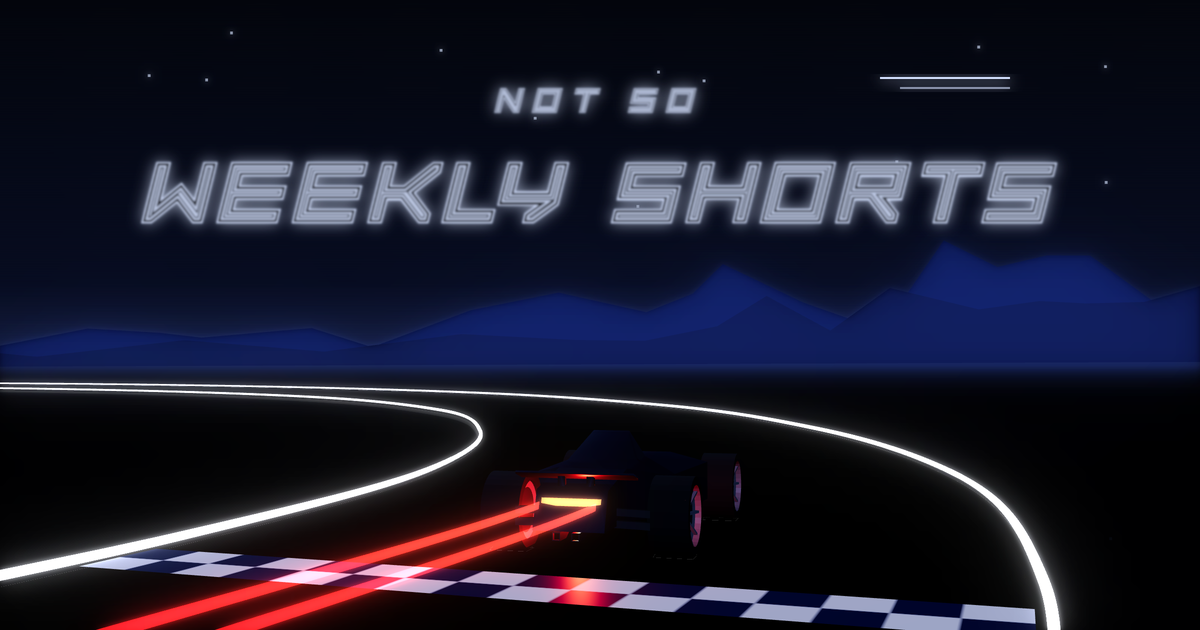
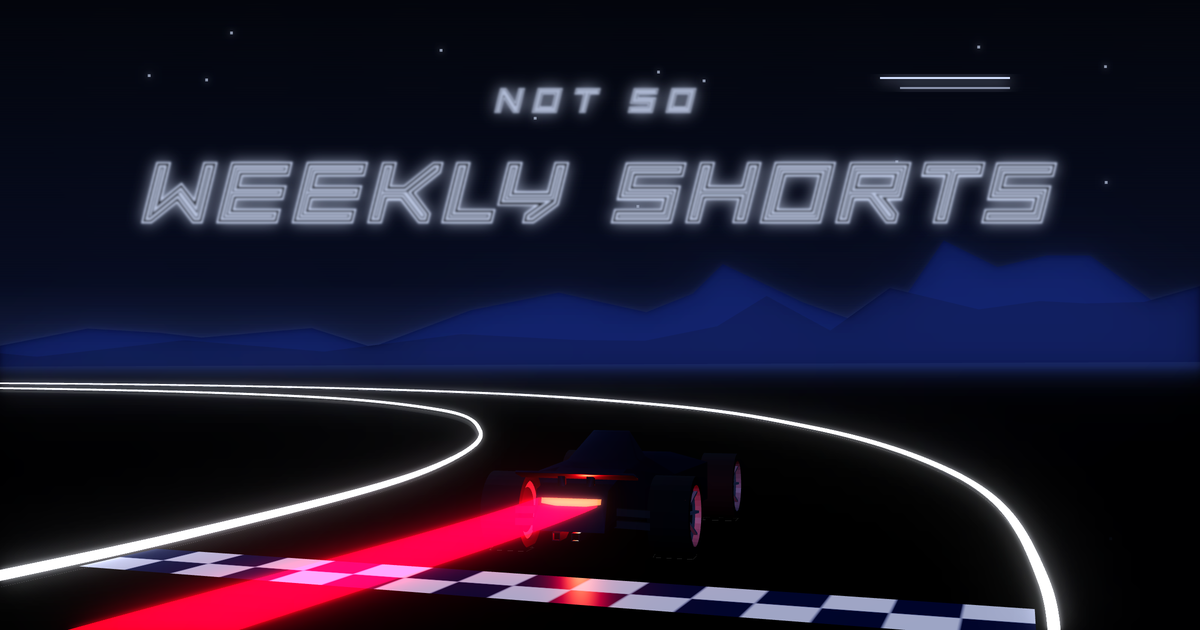
v11.72

Changed region(s): [[0.0308, 0.754, 0.5242, 1.0]]

diff --git a/index.html b/index.html
@@ -10,7 +10,7 @@
         <meta property="og:title" content="Not So Weekly Shorts">
         <meta property="og:description" content="Short PolyTrack tracks from the community, with times kept secret until the week ends. Chase medals, fill the weekly bingo card, and race friends in cups.">
         <meta property="og:url" content="https://notweeklyshorts.github.io/">
-        <meta property="og:image" content="https://notweeklyshorts.github.io/images/og.png?v=2">
+        <meta property="og:image" content="https://notweeklyshorts.github.io/images/og.png?v=3">
         <meta property="og:image:width" content="1200">
         <meta property="og:image:height" content="630">
         <meta property="og:image:alt" content="Not So Weekly Shorts: a PolyTrack car crossing a checkered finish line on a neon night track">

diff --git a/otct/index.html b/otct/index.html
@@ -10,7 +10,7 @@
         <meta property="og:title" content="Official &amp; Community Tracks">
         <meta property="og:description" content="Play PolyTrack's official tracks and the community tracks in your browser. Free, no download.">
         <meta property="og:url" content="https://notweeklyshorts.github.io/otct">
-        <meta property="og:image" content="https://notweeklyshorts.github.io/images/og.png?v=2">
+        <meta property="og:image" content="https://notweeklyshorts.github.io/images/og.png?v=3">
         <meta property="og:image:width" content="1200">
         <meta property="og:image:height" content="630">
         <meta property="og:image:alt" content="Not So Weekly Shorts: a PolyTrack car crossing a checkered finish line on a neon night track">
